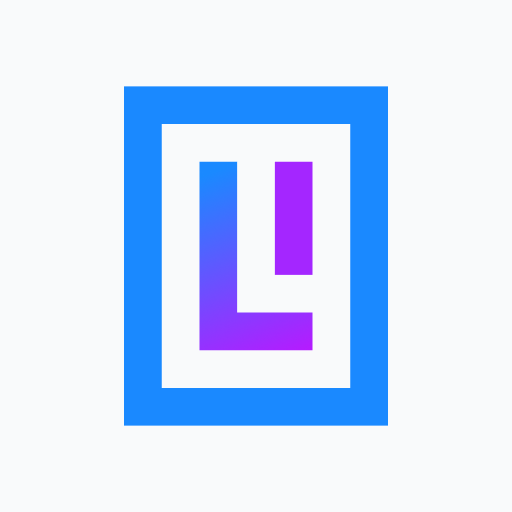
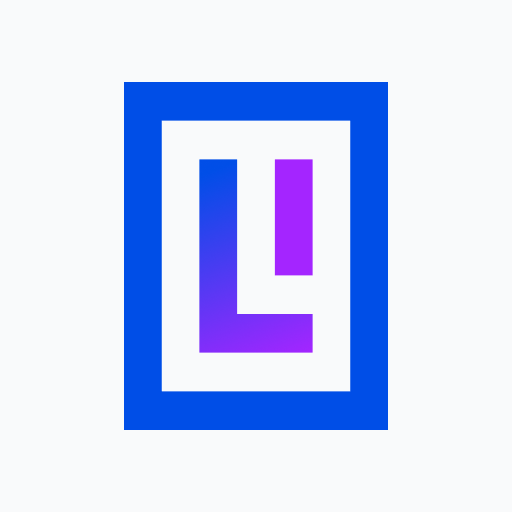
Style changes

diff --git a/packages/frontend/src/lib/components/global/Navbar.svelte b/packages/frontend/src/lib/components/global/Navbar.svelte
@@ -5,7 +5,6 @@
 	import { applicationLanguage, t } from '../../stores/settings'
 	import LanguageSelector from '../LanguageSelector.svelte'
 	import Button from '../basics/Button.svelte'
-	import Chip from '../basics/Chip.svelte'
 	import FloatingCardTrigger from '../basics/FloatingCardTrigger.svelte'
 	import MobileNavbar from './MobileNavbar.svelte'
 
@@ -58,11 +57,7 @@
 >
 	<!-- <img src="" alt="logo" class="self-center w-2/3" /> -->
 	<a class="flex items-center justify-center md:justify-start" href="/">
-		<img class="h-6" src="/logo.svg" alt="logo" />
-		<h2 class="ml-2 font-sans text-lg tracking-widest uppercase text-slate-800">
-			Liberty Invoice
-			<Chip>Early access</Chip>
-		</h2>
+		<img class="h-8 mx-auto" src="/logo.svg" alt="logo" />
 	</a>
 
 	<nav class="flex flex-col mt-6">

diff --git a/packages/frontend/src/lib/components/dashboard/Chart.svelte b/packages/frontend/src/lib/components/dashboard/Chart.svelte
@@ -60,8 +60,8 @@
 		<svg {width} {height}>
 			<defs>
 				<radialGradient id="area-gradient" cx="50%" cy="0%" r="75%" fx="50%" fy="0%">
-					<stop offset="0%" stop-color="#3b82f6" stop-opacity="0.15" />
-					<stop offset="100%" stop-color="#3b82f6" stop-opacity="0" />
+					<stop offset="0%" stop-color="#004ee7" stop-opacity="0.15" />
+					<stop offset="100%" stop-color="#004ee7" stop-opacity="0" />
 				</radialGradient>
 
 				{#each [...data].reverse() as graph, i}

diff --git a/packages/frontend/src/routes/(app)/settings/+page.svelte b/packages/frontend/src/routes/(app)/settings/+page.svelte
@@ -52,16 +52,19 @@
 		@apply px-3 py-2 bg-gray-200 hover:bg-gray-300 cursor-pointer;
 	}
 
-	a h2 {
+	a h2,
+	article h2 {
 		@apply text-lg flex items-center leading-tight;
 		word-break: break-word;
 	}
 
-	a h2 span {
+	a h2 span,
+	article h2 span {
 		@apply mr-2 text-xl;
 	}
 
-	a p {
+	a p,
+	article p {
 		@apply text-sm mt-1 text-gray-600;
 	}
 </style>

diff --git a/packages/frontend/tailwind.config.js b/packages/frontend/tailwind.config.js
@@ -3,6 +3,13 @@ export default {
 	content: ['./src/**/*.{html,js,svelte,ts}'],
 	theme: {
 		extend: {
+			colors: {
+				blue: {
+					500: '#004ee7',
+					600: '#003cb3',
+					700: '#00349a',
+				},
+			},
 			screens: {
 				xs: '475px',
 			},

diff --git a/packages/frontend/src/lib/components/dashboard/RevenueChart.svelte b/packages/frontend/src/lib/components/dashboard/RevenueChart.svelte
@@ -73,7 +73,7 @@
 
 	$: data = [
 		{
-			color: '#3b82f6',
+			color: '#004ee7',
 			name:
 				view === 'year'
 					? $t('dashboard.revenueChart.thisYear')
